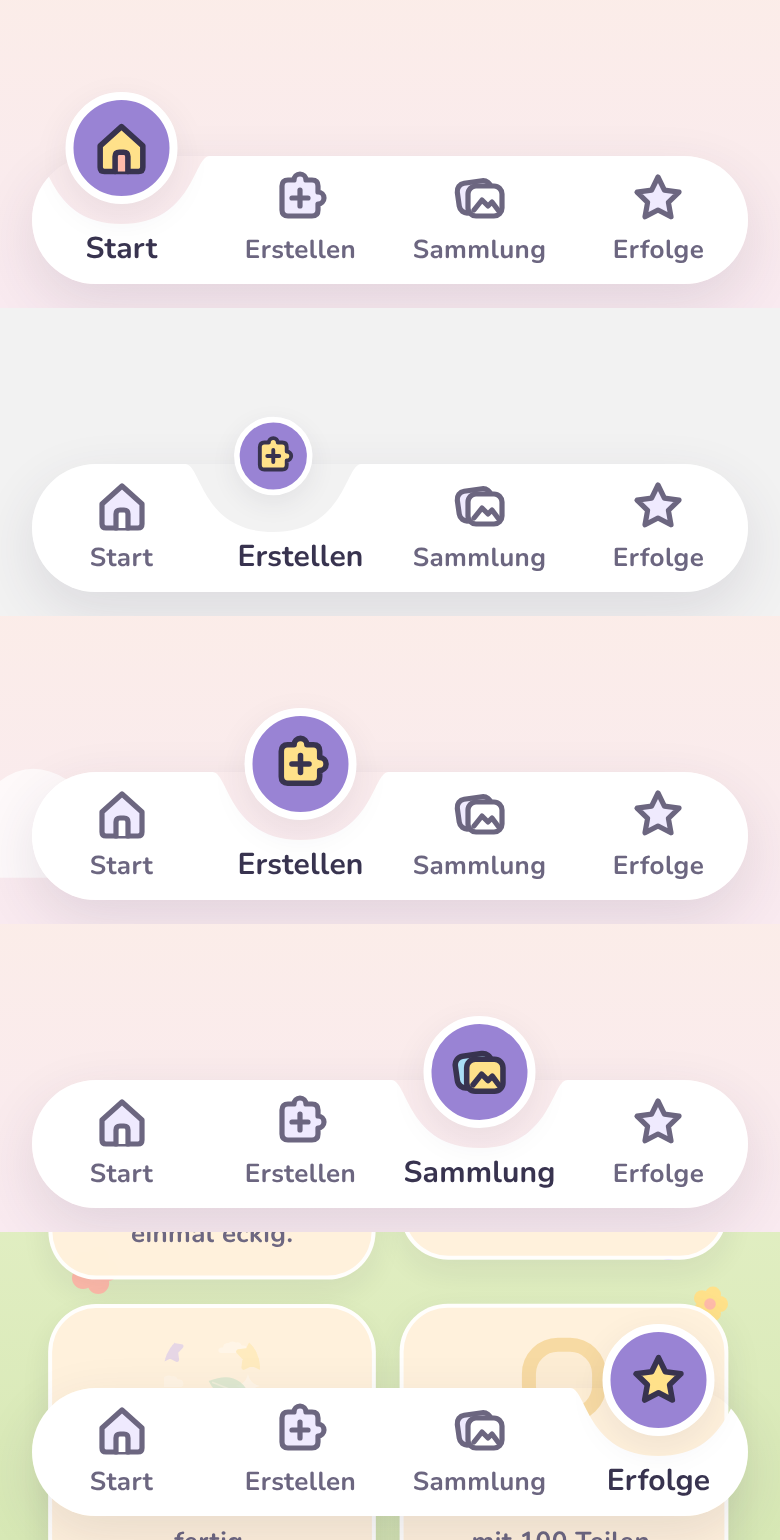
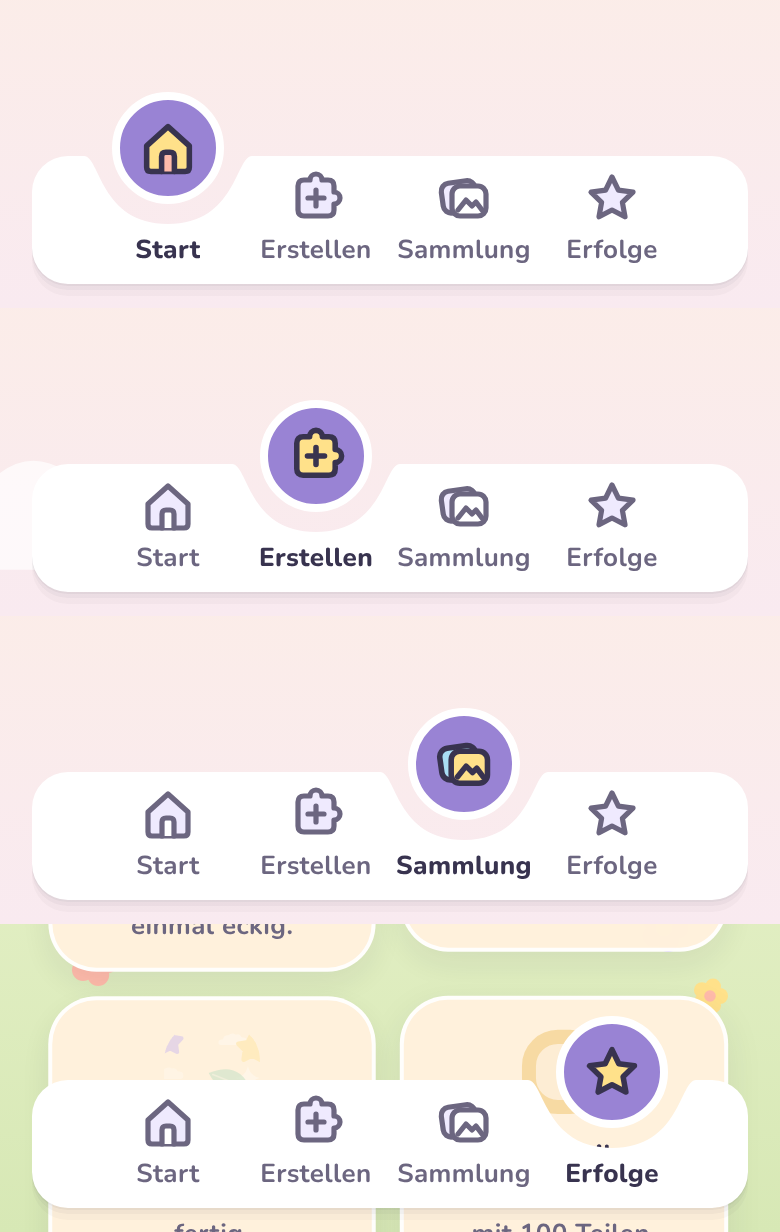
docs: change 01 – record the tab bar follow-up from PO feedback
Claude-Session: https://claude.ai/code/session_01CZ9FFcy5zGQryXQRGVkaUU

diff --git a/docs/design/design-system.md b/docs/design/design-system.md
@@ -93,15 +93,15 @@ Navy-getönt, max. zwei Ebenen pro Screen: `shadow.card` (Karten), `shadow.raise
 
 **Bewegte Elemente (dezent, zum Pastell-Stil passend):**
 
-| Baustein                                            | Wirkung                                                                                                                                                                                                                                             |
-| --------------------------------------------------- | --------------------------------------------------------------------------------------------------------------------------------------------------------------------------------------------------------------------------------------------------- |
-| `<Appear variant="rise"/"pop">` + `staggerDelay(i)` | Inhalte steigen sanft auf bzw. poppen nacheinander herein (max. 360 ms Versatz)                                                                                                                                                                     |
-| `usePressBounce()`                                  | Karten, Chips, Schalen, Tabs federn beim Antippen                                                                                                                                                                                                   |
-| Tab-Leiste (`BottomNavigation`)                     | Weiße Leiste mit weicher Mulde; der aktive Tab sitzt in einer lila Blase mit weißem Ring darüber. Beim Wechsel gleiten Mulde und Blase federnd hinüber (`spring.glide`), das Symbol poppt kurz auf, der Name wird fett (seit 2026-11-04, PO-Wunsch) |
-| `<StarRow animated>`                                | Sterne der Feier poppen einzeln auf                                                                                                                                                                                                                 |
-| `<Sparkles>`                                        | einige funkelnde Sterne um Pino (Feier, Erfolge)                                                                                                                                                                                                    |
-| `<Burst>`                                           | kurzer goldener Punkte-Funken, wenn ein Teil einrastet                                                                                                                                                                                              |
-| Fortschritt im Spiel                                | Zähler „12/36“ hüpft bei jedem eingerasteten Teil                                                                                                                                                                                                   |
+| Baustein                                            | Wirkung                                                                                                                                                                                                                                                                                                                                                                                                                         |
+| --------------------------------------------------- | ------------------------------------------------------------------------------------------------------------------------------------------------------------------------------------------------------------------------------------------------------------------------------------------------------------------------------------------------------------------------------------------------------------------------------- |
+| `<Appear variant="rise"/"pop">` + `staggerDelay(i)` | Inhalte steigen sanft auf bzw. poppen nacheinander herein (max. 360 ms Versatz)                                                                                                                                                                                                                                                                                                                                                 |
+| `usePressBounce()`                                  | Karten, Chips, Schalen, Tabs federn beim Antippen                                                                                                                                                                                                                                                                                                                                                                               |
+| Tab-Leiste (`BottomNavigation`)                     | Weiße Leiste (Ecken `radius.md`) mit weicher Mulde; die äußeren Tabs rücken so weit ein, dass neben der Mulde immer Leiste bis zur Ecke bleibt. Schatten folgt der Form, nichts scheint in der Mulde durch. Der aktive Tab sitzt in einer lila Blase mit weißem Ring darüber. Beim Wechsel gleiten Mulde und Blase federnd hinüber (`spring.glide`), das Symbol poppt kurz auf, der Name wird fett (seit 2026-11-04, PO-Wunsch) |
+| `<StarRow animated>`                                | Sterne der Feier poppen einzeln auf                                                                                                                                                                                                                                                                                                                                                                                             |
+| `<Sparkles>`                                        | einige funkelnde Sterne um Pino (Feier, Erfolge)                                                                                                                                                                                                                                                                                                                                                                                |
+| `<Burst>`                                           | kurzer goldener Punkte-Funken, wenn ein Teil einrastet                                                                                                                                                                                                                                                                                                                                                                          |
+| Fortschritt im Spiel                                | Zähler „12/36“ hüpft bei jedem eingerasteten Teil                                                                                                                                                                                                                                                                                                                                                                               |
 
 **Reduced Motion:** Systemeinstellung (`AccessibilityInfo.isReduceMotionEnabled`) + eigener Schalter im Elternbereich → Feder-Animationen werden zu kurzen Fades, Maskottchen-Idle und Partikel entfallen. Keine Dauer-Animationen im Hintergrund.
 

diff --git a/docs/previews/milestone-reports/2026-11-04-update-01-navbar.md b/docs/previews/milestone-reports/2026-11-04-update-01-navbar.md
@@ -14,6 +14,17 @@
 
 Farben, Größen und Feder kommen zentral aus dem Designsystem (`color.brand.purple`, `spring.glide`); die Form der Mulde ist eine getestete Funktion (`packages/ui/src/components/navShape.ts`).
 
+## Nachbesserung nach PO-Feedback (2026-11-04)
+
+> „Mir gefällt der Ausschnitt links und rechts nicht … es wirkt so, als wäre die Tableiste erneut dahinter gelegt.“
+
+| Problem                                                                           | Lösung                                                                                                                                                                                                                                                                                      |
+| --------------------------------------------------------------------------------- | ------------------------------------------------------------------------------------------------------------------------------------------------------------------------------------------------------------------------------------------------------------------------------------------- |
+| Bei „Start“ und „Erfolge“ lief die Mulde in die runde Ecke – wirkte abgeschnitten | Die äußeren Tabs rücken so weit nach innen, dass neben der Mulde **immer ein Stück Leiste (≥ 8 pt) bis zur Ecke** bleibt – wie im Referenzbild. Ecken weicher wie im Referenzbild (`radius.md`). Die Tippfläche der äußeren Tabs reicht trotzdem bis zum Rand.                              |
+| In der Mulde lag ein blasser Schleier („Leiste dahinter“)                         | Ursache: der rechteckige Schatten der Leiste und der Schatten der Blase. Jetzt sind Leiste, Ecken und Mulde **eine** Form; ihr Schatten folgt der Form und liegt nur unter der Leiste. In der Mulde ist nur noch der Hintergrund zu sehen (nachgemessen: Farbe in der Mulde = Hintergrund). |
+| Fetter Name „Sammlung“ wurde abgeschnitten                                        | Aktiver Name bleibt gleich groß, nur kräftiger und dunkler.                                                                                                                                                                                                                                 |
+| Sehr schmale Handys (320 pt)                                                      | Leiste dort mit 8 statt 16 pt Seitenrand, damit jeder Tab ≥ 56 pt breit bleibt (getestet).                                                                                                                                                                                                  |
+
 ## Bilder
 
 | Alle Zustände (oben: Start; 2. Bild mitten im Gleiten)         | Animation (Aufnahme, Zeitverlauf nur ungefähr)                    |
@@ -22,7 +33,7 @@ Farben, Größen und Feder kommen zentral aus dem Designsystem (`color.brand.pur
 
 ## Prüfung
 
-TypeScript, ESLint, Prettier ✅ · Tests ✅ (UI 53, App 67, Engine 91 …) · Web ohne Fehlermeldungen ✅ · **Android-Emulator ✅** (Lauf 41797465551, kompletter Ablauf mit 23 Bildern; Tab-Wechsel per Maestro über die neuen Tabs) · **iOS-Simulator ✅** (Lauf 41797470037, kompletter Ablauf mit 23 Bildern).
+TypeScript, ESLint, Prettier ✅ · Tests ✅ (UI 53, App 67, Engine 91 …) · Web ohne Fehlermeldungen ✅ · **Android-Emulator ✅** (erste Fassung: Lauf 41797465551, kompletter Ablauf mit 23 Bildern; Tab-Wechsel per Maestro über die neuen Tabs) · **iOS-Simulator ✅** (erste Fassung: Lauf 41797470037, kompletter Ablauf mit 23 Bildern). Die Nachbesserung läuft gerade auf beiden; die Ausschnitte unten zeigen noch die erste Fassung und werden ersetzt.
 
 | Android-Emulator: Leiste in allen vier Tabs (Ausschnitte aus den Maestro-Bildern 04, 05, 14, 15) |
 | ------------------------------------------------------------------------------------------------ |
